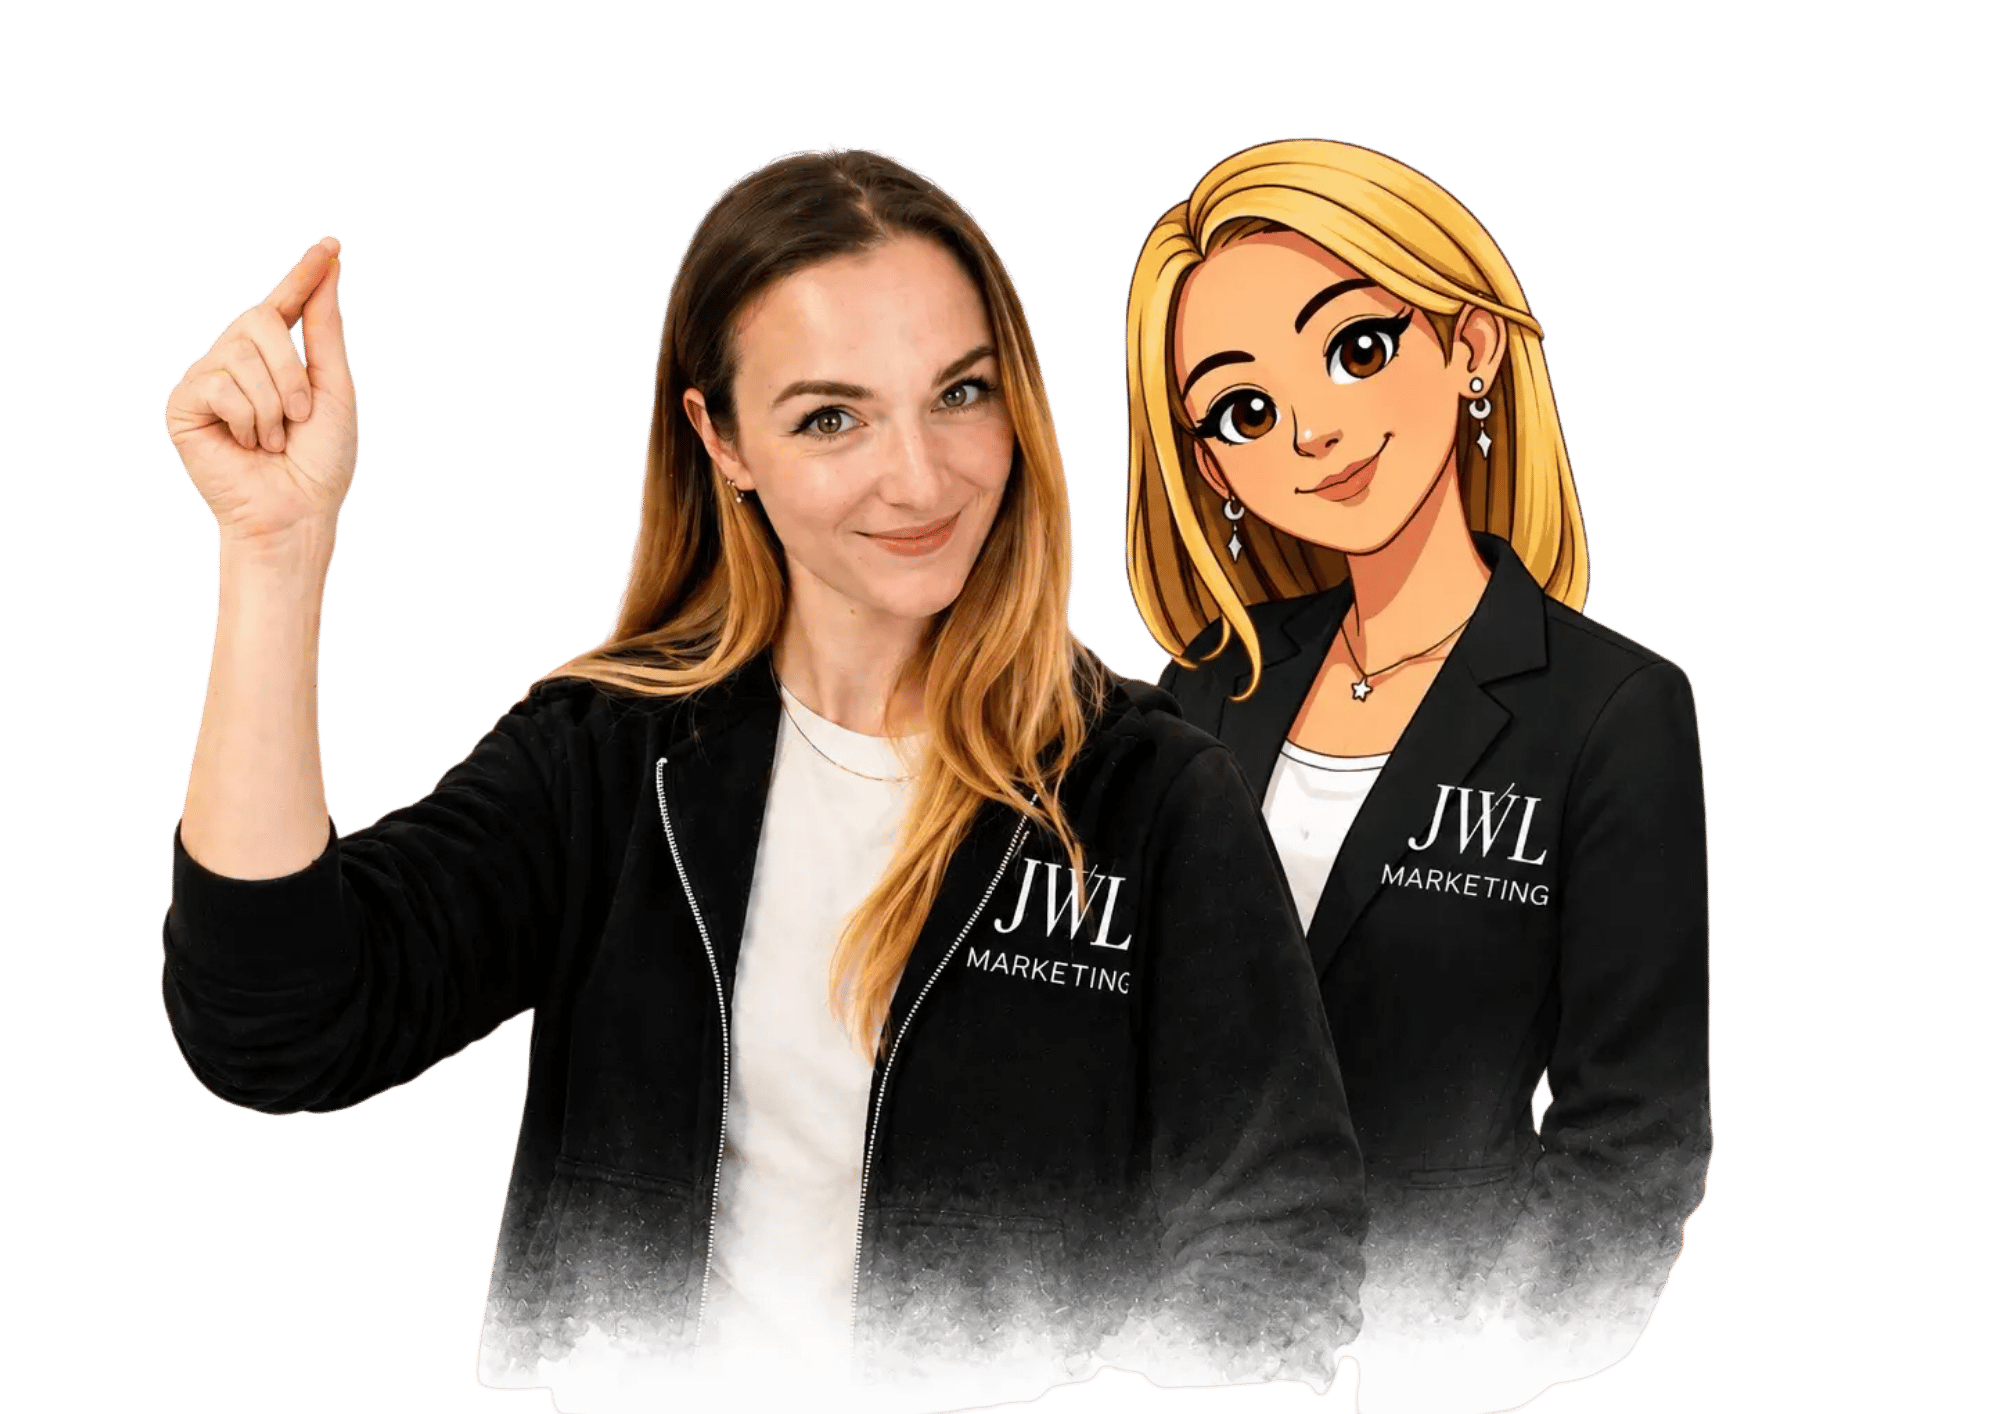
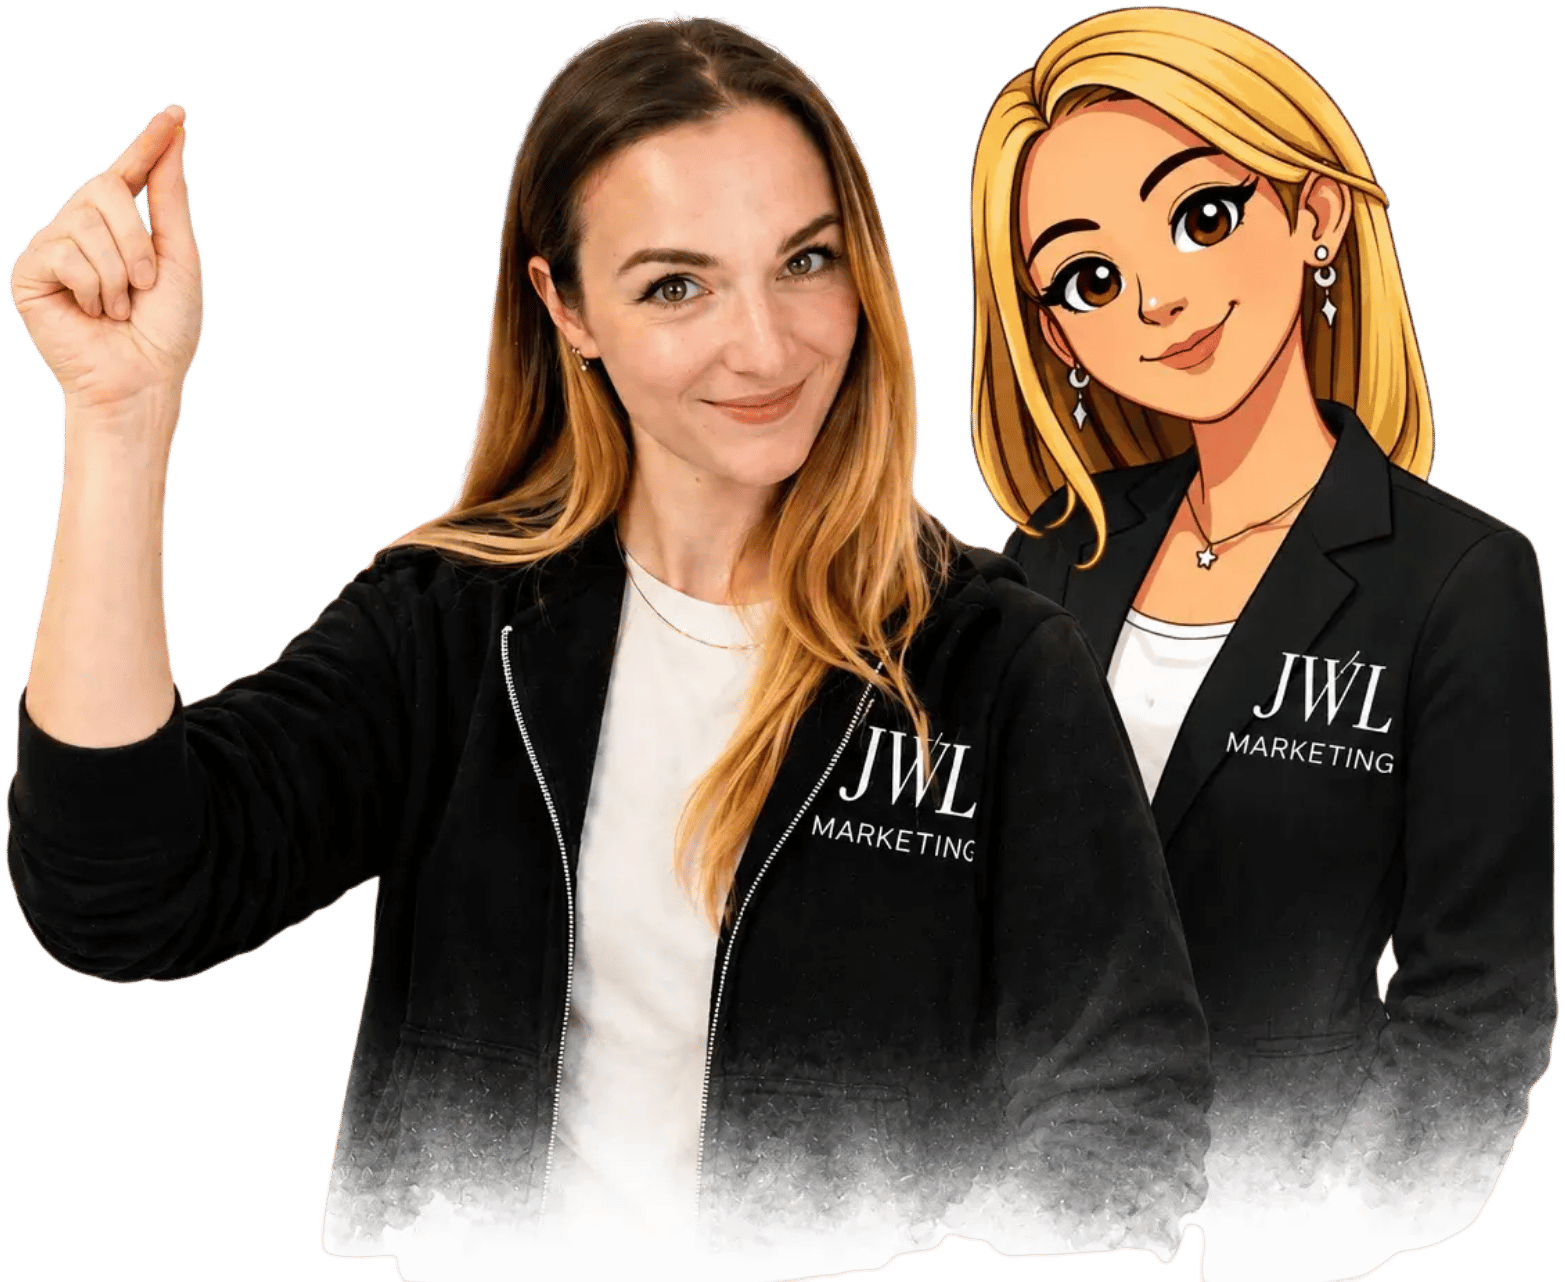
Recadre la photo hero sur la tête (supprime l'espace blanc intégré au-dessus)
Même bug que le logo : le PNG avait 137px de marge transparente au-dessus
de la tête, empêchant tout alignement propre avec le texte. Recadré au
bbox réel + items-start pour que la tête serve de repère haut.

diff --git a/src/app/page.tsx b/src/app/page.tsx
@@ -312,12 +312,12 @@ export default function Home() {
           </div>
         </div>
 
-        <div className="relative flex flex-[1.2_1_0%] items-center justify-end">
+        <div className="relative flex flex-[1.2_1_0%] items-start justify-end">
           <Image
             src="/images/hero-jodie-cartoon.png"
             alt="Jodie Lapaillerie - JWL Marketing"
             width={760}
-            height={630}
+            height={623}
             priority
             className="h-auto w-[90%] object-contain"
           />
